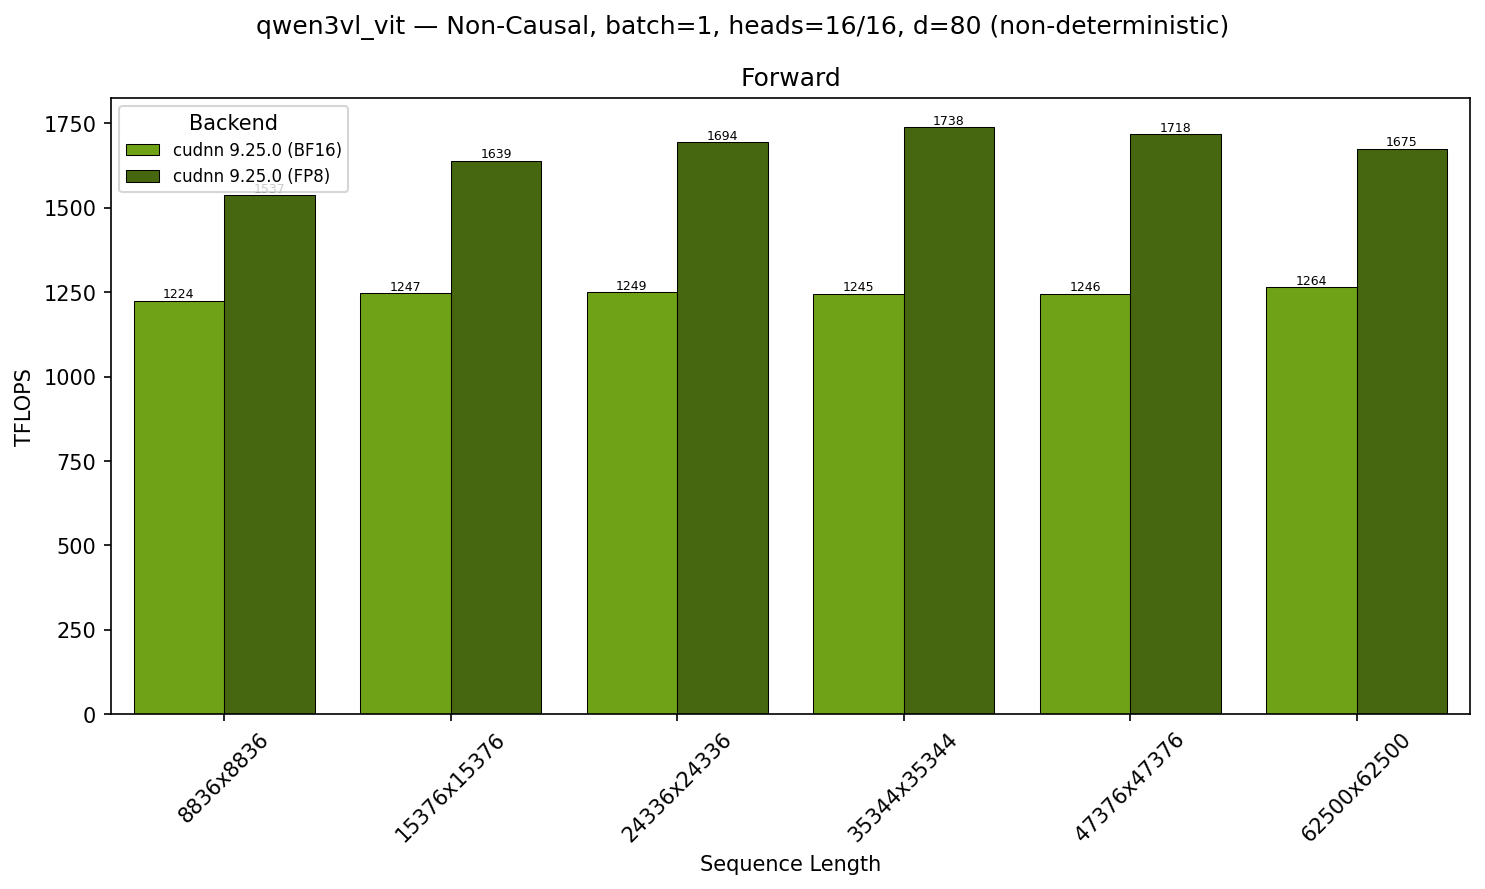
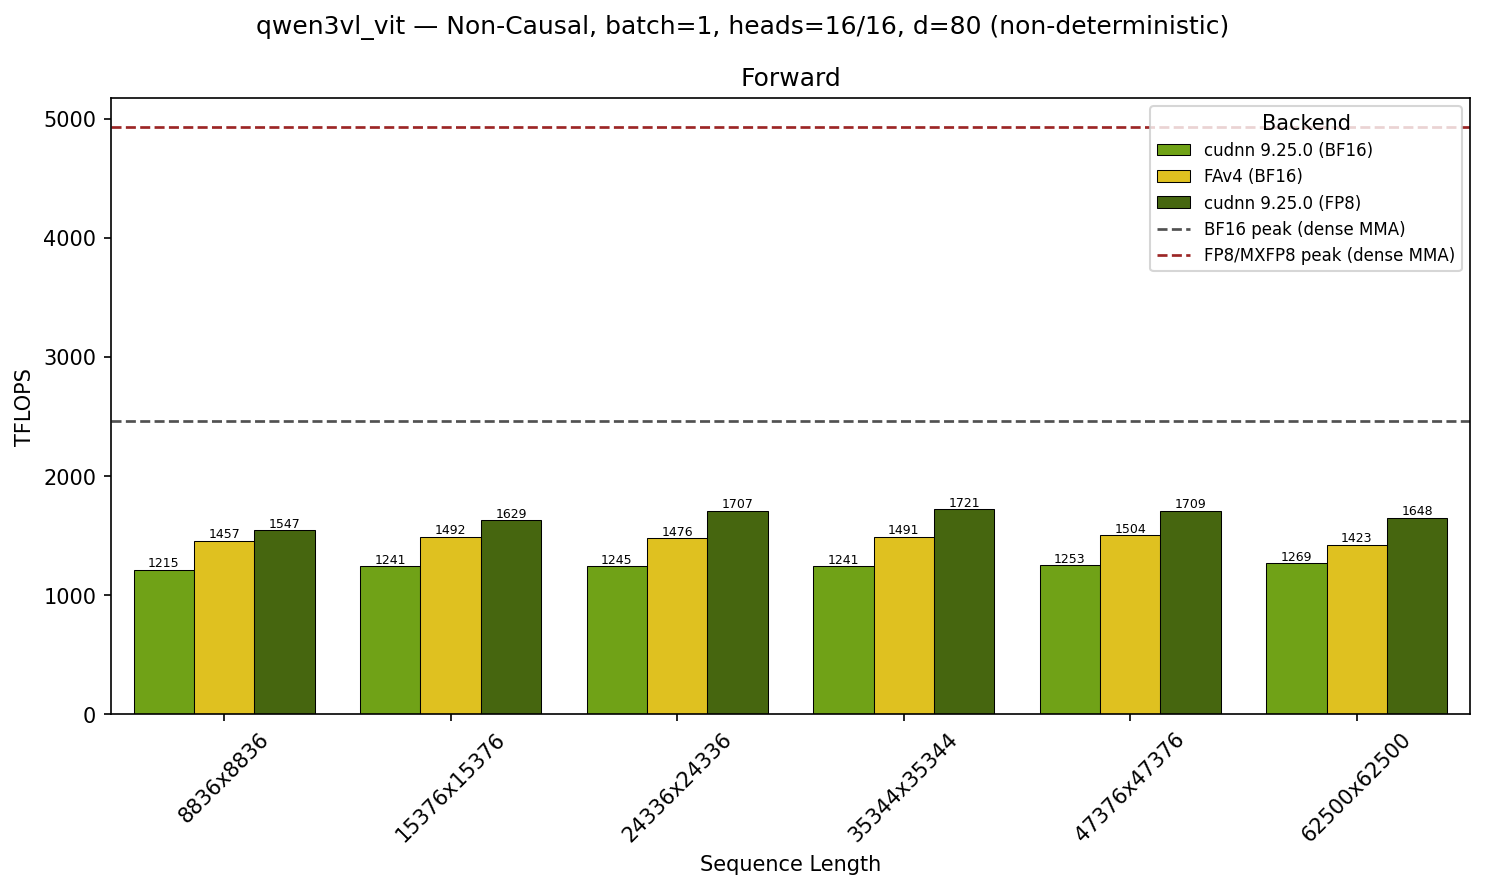
benchmark qwen3vl_vit: add cudnn_oss + working FA4 series, refresh GB300 results
- backends += cudnn_oss (merged in #597), matching the other configs.
- FA4 now runs on GB300 via the pre-release flash-attn-4[cu13] wheel
  (the fa4 4.0.0b3 wheel asserted sm103 unsupported); bf16 lands
  1423-1504 TFLOPS, ~18% ahead of the cudnn bf16 rows.
- cudnn_oss rows are recorded unsupported: no FROST OSS engine serves a
  bare-dense fwd graph whose S_kv is not a multiple of 128 (unmasked-tail
  rule), and ViT patch-grid lengths never are. Engine-side dense tail
  handling is the follow-up that would light these rows up.
- Results regenerated in one session with FE built from develop tip
  (python tree and pybind module must match: VariantPackNative skew).

diff --git a/benchmark/sdpa_benchmark_training/configs/qwen3vl_vit.py b/benchmark/sdpa_benchmark_training/configs/qwen3vl_vit.py
@@ -55,7 +55,7 @@ CONFIG = BenchmarkConfig(
         (47376, 47376),  # non-square grid (168x282)
         (62500, 62500),  # 250x250
     ],
-    backends=["cudnn", "flash_attention_4"],
+    backends=["cudnn", "cudnn_oss", "flash_attention_4"],
     data_types=["bfloat16", "fp8"],
     attn_masks=["no_mask"],
     profile_pass="fwd",
